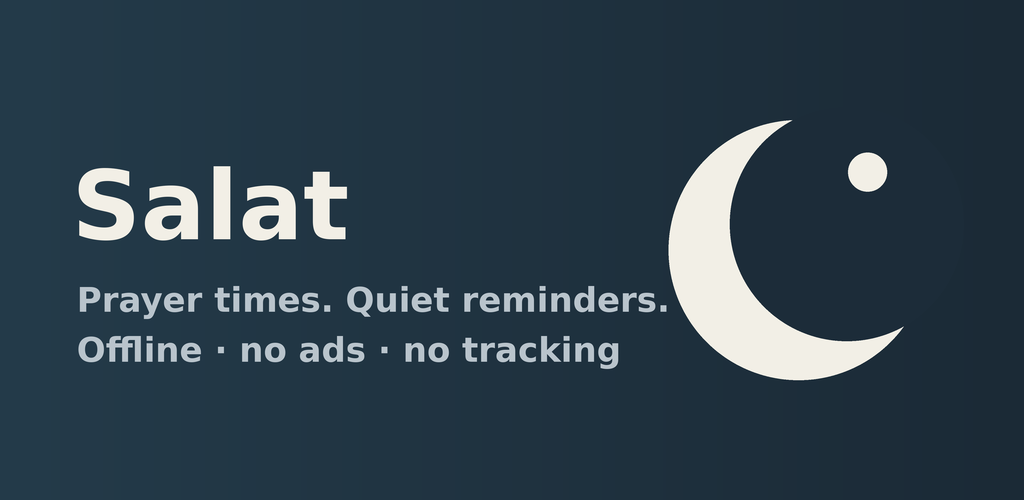
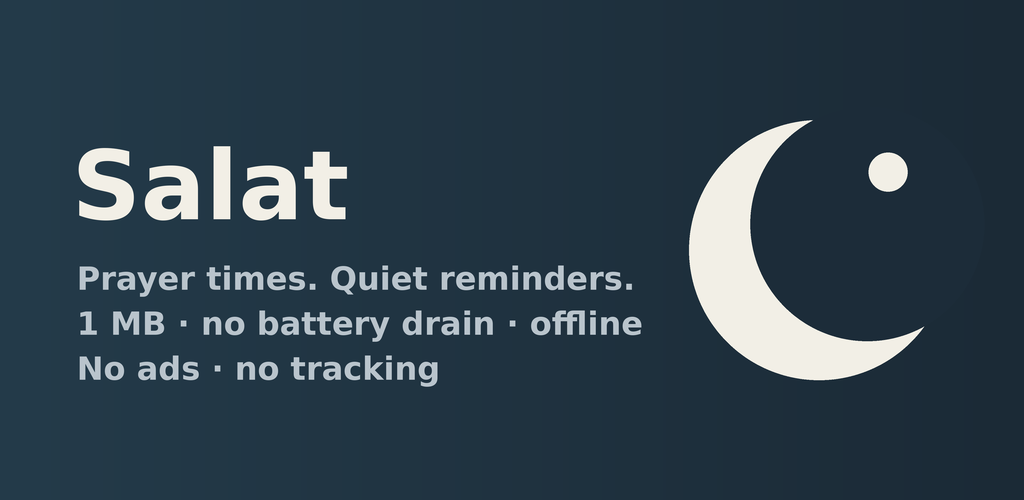
store: lead with size and battery in the listing
Claude-Session: https://claude.ai/code/session_01TaByRKh8HMGhyYMj1zMo99

Changed region(s): [[0.0625, 0.24, 0.9062, 0.78], [0.0625, 0.3, 0.3438, 0.48], [0.8125, 0.3, 0.9062, 0.39]]

diff --git a/store/listing-ar.md b/store/listing-ar.md
@@ -3,10 +3,10 @@
 **App name (30):** صلاة — مواقيت الصلاة
 
 **Short description (80):**
-مواقيت الصلاة وتذكيرات هادئة. بدون إنترنت، بدون إعلانات، بدون تتبع.
+مواقيت الصلاة وتذكيرات هادئة. نحو 1 م.ب، لا يستهلك البطارية، بدون إنترنت أو إعلانات.
 
 **Full description (4000):**
-يعرض تطبيق صلاة مواقيت الصلاة لليوم ويذكّرك عند كل صلاة بنغمة قصيرة — ثم يبقى بعيدًا عن طريقك.
+يعرض تطبيق صلاة مواقيت الصلاة لليوم ويذكّرك عند كل صلاة بنغمة قصيرة — ثم يبقى بعيدًا عن طريقك. حجمه نحو 1 ميغابايت، بلا خدمة في الخلفية، ولا يكاد يستهلك البطارية.
 
 خفيف وهادئ
 • إشعار واحد لكل صلاة بنغمة قصيرة مميزة يمكنك إيقافها

diff --git a/store/listing-de.md b/store/listing-de.md
@@ -3,10 +3,10 @@
 **App name (30):** Salat – Gebetszeiten
 
 **Short description (80):**
-Gebetszeiten und leise Erinnerungen. Offline, ohne Werbung, ohne Tracking.
+Gebetszeiten & leise Erinnerungen. ~1 MB, kein Akkuverbrauch, offline, werbefrei.
 
 **Full description (4000):**
-Salat zeigt die Gebetszeiten des Tages und erinnert dich zu jedem Gebet mit einem kurzen Klang – und hält sich sonst zurück.
+Salat zeigt die Gebetszeiten des Tages und erinnert dich zu jedem Gebet mit einem kurzen Klang – und hält sich sonst zurück. Etwa 1 MB, kein Hintergrunddienst, praktisch kein Akkuverbrauch.
 
 LEICHT UND LEISE
 • Eine Benachrichtigung pro Gebet mit einem kurzen, unverwechselbaren Klang, der sich abschalten lässt

diff --git a/store/listing-en.md b/store/listing-en.md
@@ -3,10 +3,10 @@
 **App name (30):** Salat — Prayer Times
 
 **Short description (80):**
-Prayer times and quiet reminders. Offline, no ads, no tracking.
+Prayer times & quiet reminders. ~1 MB, no battery drain, offline, no ads.
 
 **Full description (4000):**
-Salat shows today's prayer times and reminds you at each prayer with a short chime — and otherwise stays out of your way.
+Salat shows today's prayer times and reminds you at each prayer with a short chime — and otherwise stays out of your way. It is about 1 MB, runs no background service and uses next to no battery.
 
 LIGHT AND QUIET
 • One notification per prayer, with a distinctive short chime you can turn off
